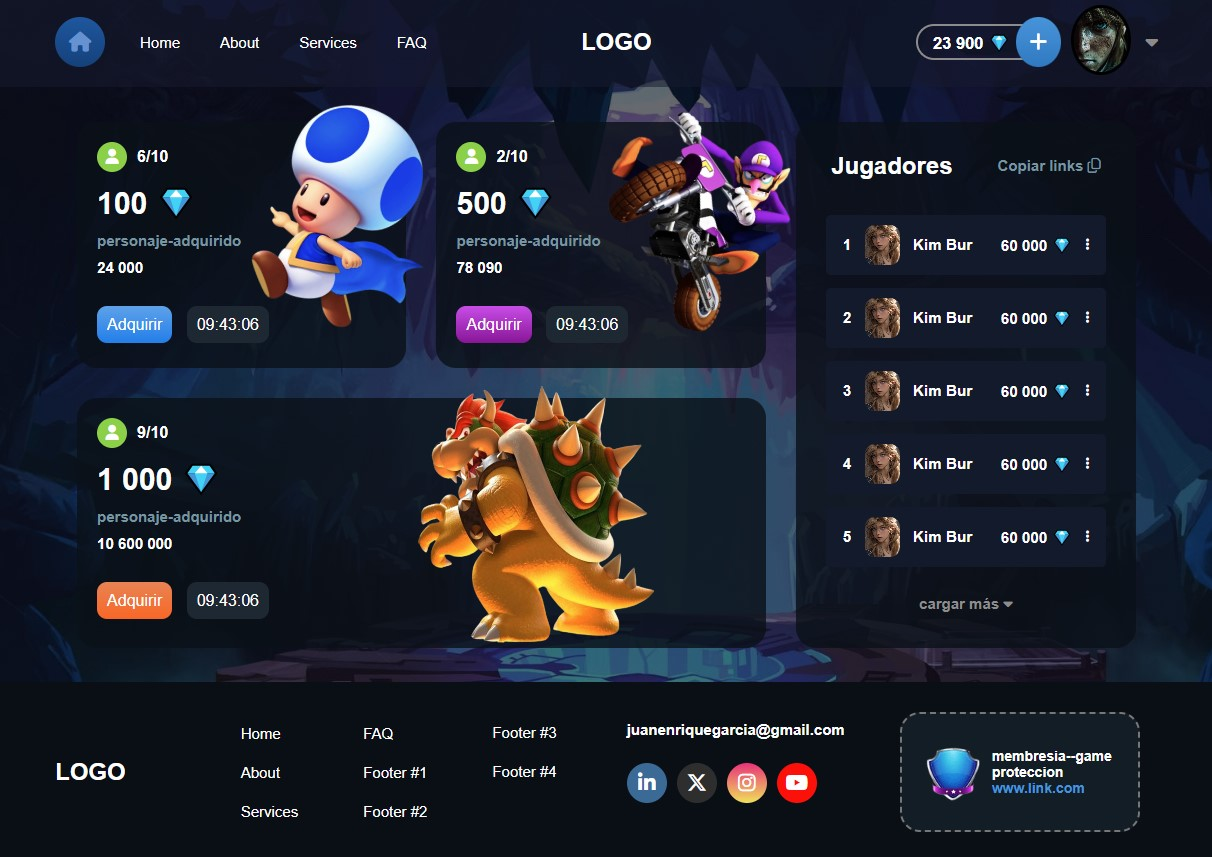
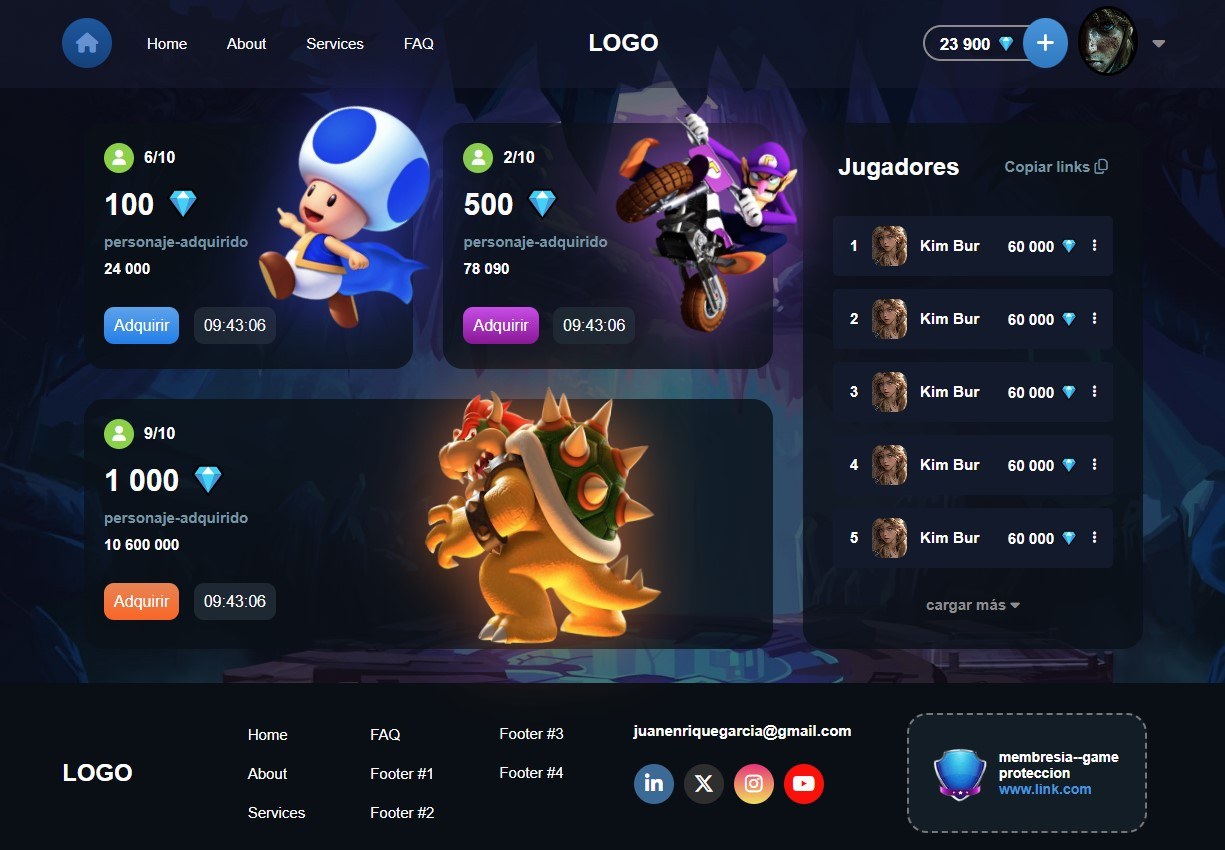
add efectos card

diff --git a/style.css b/style.css
@@ -203,6 +203,7 @@ body{
   margin-left: 110px;
   transform: rotate(40deg) scaleX(-1);
   user-select: none;
+  filter: drop-shadow(0 0 2em #373fe2aa);
 }
 
 
@@ -213,6 +214,7 @@ body{
   margin-left: 85px;
   transform: rotate(15deg);
   user-select: none;
+  filter: drop-shadow(0 0 2em #c664ffaa);
 }
 
 .bowser__img{
@@ -222,6 +224,7 @@ body{
   margin-left: 250px;
   transform: rotate(2deg);
   user-select: none;
+  filter: drop-shadow(0 0 2em #f17426aa);
 }
 
 
